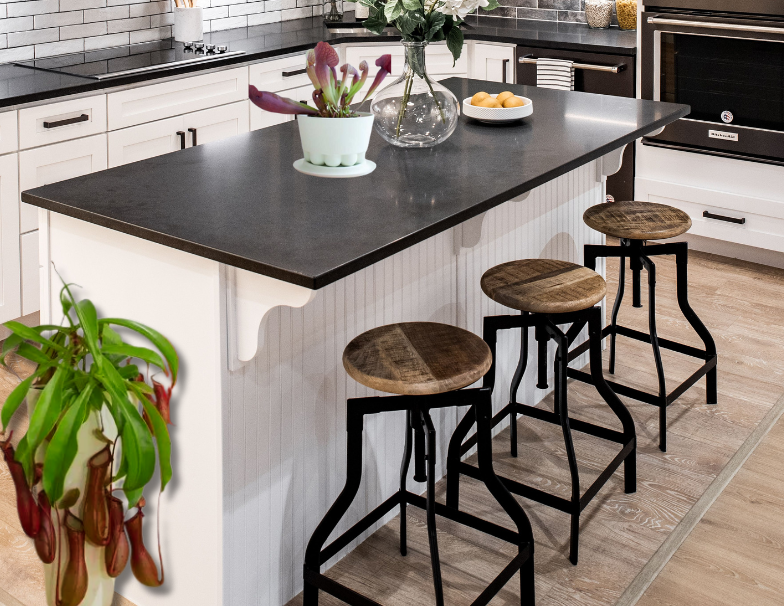
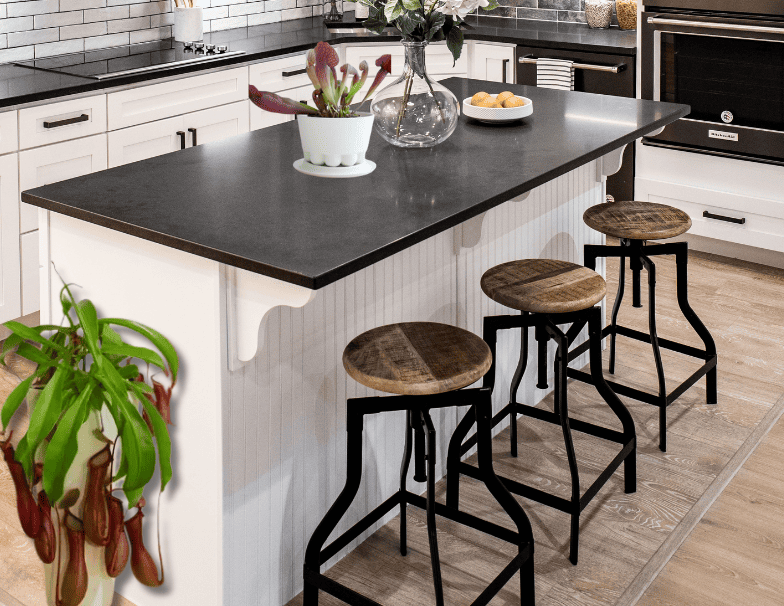
optimización de imágenes y agregado de folleto PDF

diff --git a/menu-tienda.html b/menu-tienda.html
@@ -17,7 +17,7 @@
     <main>
 
     <section class="kits">
-        <img src="img/kits/00.png" alt="Macetas con plantas carnívoras" class="kits-image">
+        <img src="img/kits/00.jpg" alt="Macetas con plantas carnívoras" class="kits-image">
         <div class="kits-text">
             <h2>¿Listo para la aventura verde? </h2>
             <h1>Explora nuestros kits exclusivos de plantas carnívoras</h1>
@@ -50,7 +50,7 @@
         </div>
         <div class="grupo">
             <div class="img-con-texto alto-a">
-                <img src="img/kits/04.png" alt="Escritorio con plantas carnívoras decorativas">
+                <img src="img/kits/04.jpg" alt="Escritorio con plantas carnívoras decorativas">
                 <div class="texto-sobre-img">
                     <span class="linea-superior">Para la oficina</span>
                     <span class="linea-inferior">Kit "Selva de Escritorio"</span>
@@ -81,7 +81,7 @@
                 <img src="img/kits/10.jpg" alt="Imagen planta carnívora 10">
             </div>
             <div class="img-wrap alto-b">
-                <img src="img/kits/11.jpg" alt="Imagen planta carnívora 11">
+                <img src="img/kits/11.png" alt="Imagen planta carnívora 11">
             </div>
             <div class="img-con-texto alto-a">
                 <img src="img/kits/12.png" alt="Living con plantas carnívoras decorativas">
@@ -99,7 +99,7 @@
     <section class="opciones">
         <div class="contenedor-opciones">
             <h3>Conocé todas nuestras opciones</h3>
-            <a href="archivo.pdf" target="_blank">
+            <a href="img/folleto.pdf" target="_blank">
                 <img src="img/kits/kits.png" alt="Descargar opciones en PDF">
             </a>
         </div>
